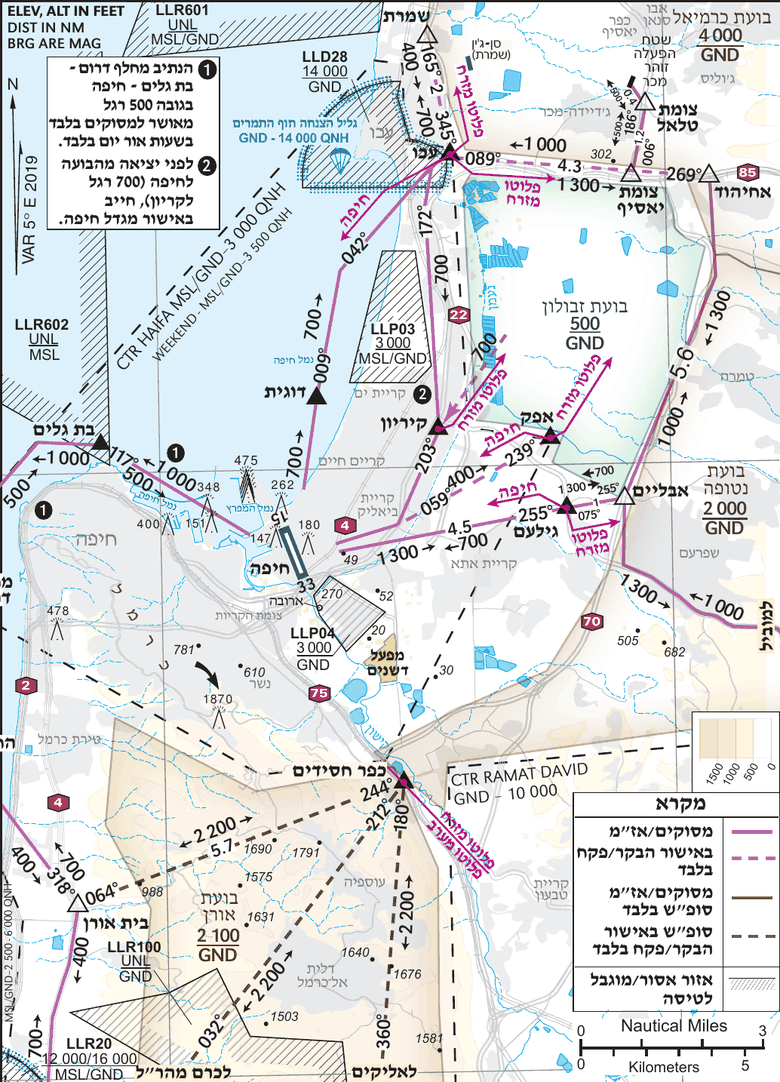
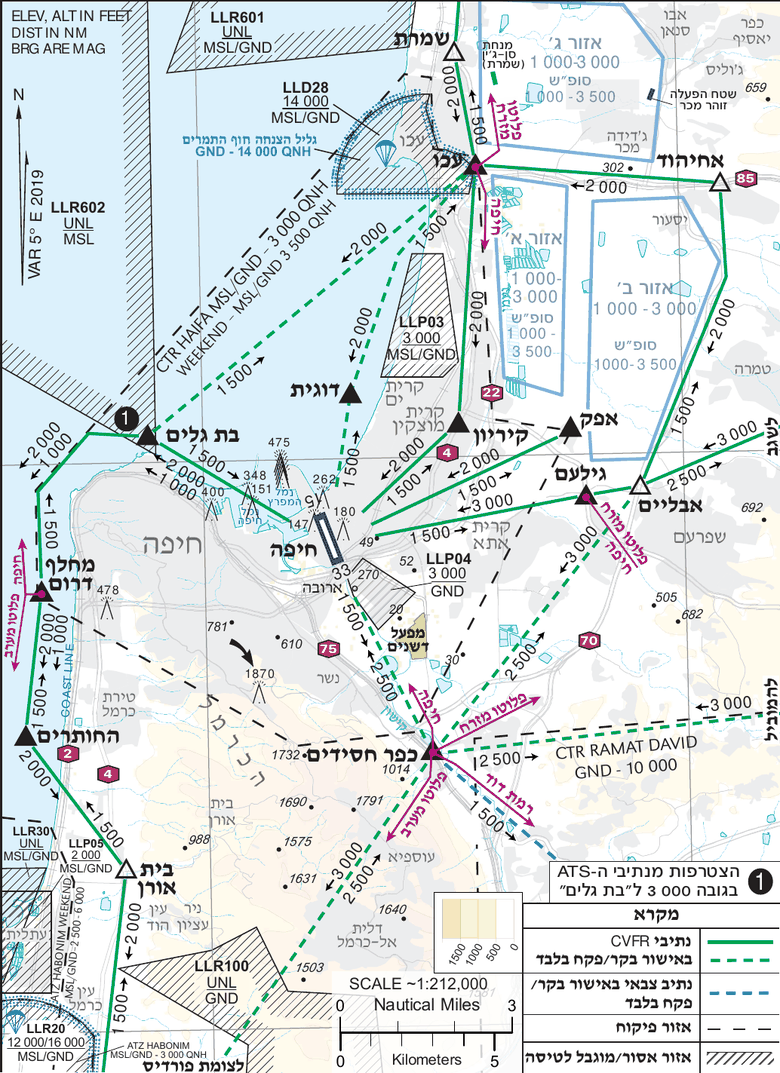
Fix LLHA CVFR overlay to use Annex Gimel chart
Fixes #2677

diff --git a/tests/airfields-dataset.spec.js b/tests/airfields-dataset.spec.js
@@ -618,6 +618,21 @@ test('every field with a CVFR route plate has a CVFR overlay', async () => {
   expect(missing).toEqual([]);
 });
 
+test('LLHA CVFR overlay uses the reviewed Annex Gimel chart and its graticule', async () => {
+  const llha = loadData().airfields.find(f => f.name === 'LLHA');
+  // Annex Gimel is the green CVFR entry/exit chart. Annex Daled has nearly the
+  // same coverage but depicts the magenta low-altitude routes; bounds alone
+  // cannot detect that substitution. Pin the visually reviewed crop as well.
+  const chart = fs.readFileSync(path.join(__dirname, '..', 'docs', 'cvfr-img', llha.cvfr_overlay.png));
+  expect(require('crypto').createHash('sha256').update(chart).digest('hex')).toBe(
[1 lines of base64/hex data omitted]
+  expect(llha.cvfr_overlay).toEqual({
+    png: 'LLHA_cvfr.png',
+    sw: [32.65085, 34.93241],
+    ne: [32.96524, 35.20341],
+  });
+});
+
 test('LLRS CVFR overlay keeps its reviewed rotated anchors', async () => {
   const fs = require('fs');
   const path = require('path');

diff --git a/.ai/data.md b/.ai/data.md
@@ -156,6 +156,13 @@ python3 scripts/build_terrain.py /path/to/hgt --out docs/data/terrain.json
 
 ## BYOP PDFs
 
+Haifa's CVFR overlay (`cvfr-img/LLHA_cvfr.png`) is cropped from
+`byop/LLHA_airport_Annex Gimel.pdf` (CVFR entry/exit routes), not Annex Daled
+(low-altitude entry/exit routes). Regenerate it with
+`python3 scripts/georef-plate.py "docs/byop/LLHA_airport_Annex Gimel.pdf" LLHA --write`.
+Update its `cvfr_overlay` bounds from that chart's graticule and review the
+green CVFR routes before updating the asset fingerprint in `airfields-dataset.spec.js`.
+
 `docs/byop/` is intentionally public and stable. Deploy keeps one production
 copy and staging resolves plates against that shared root URL.
 
